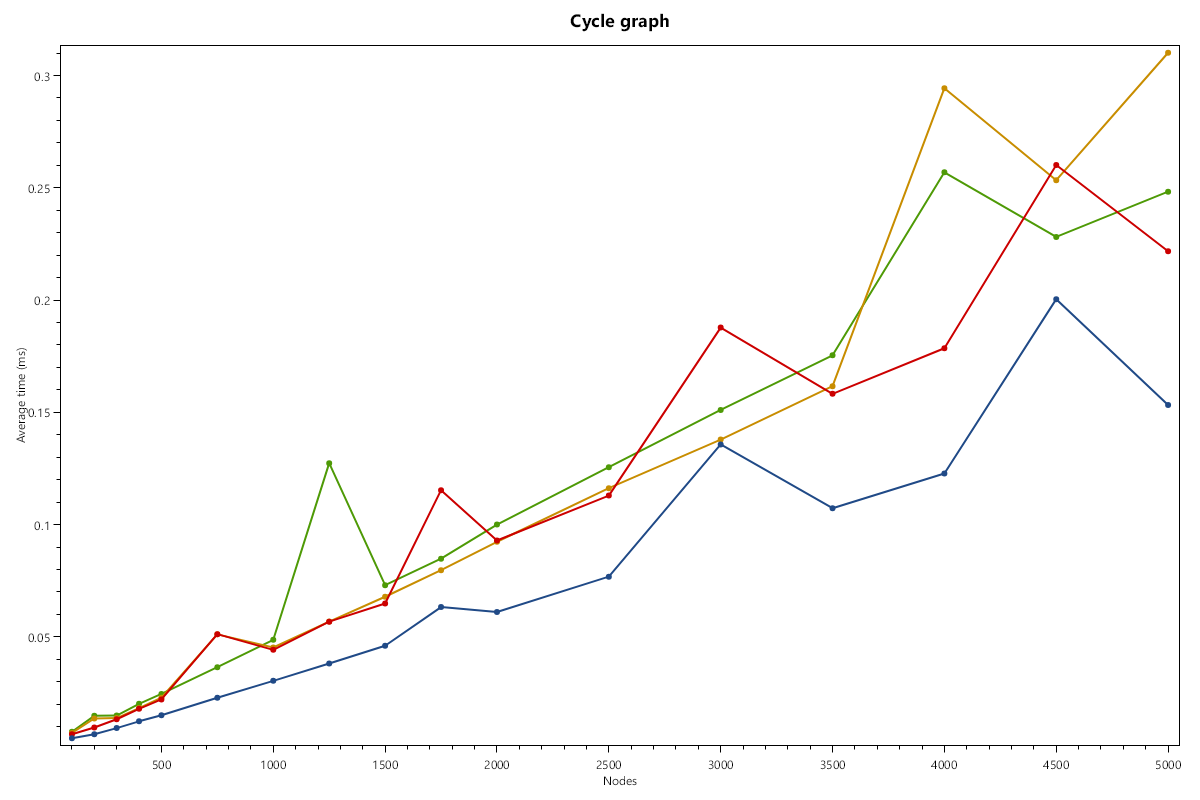
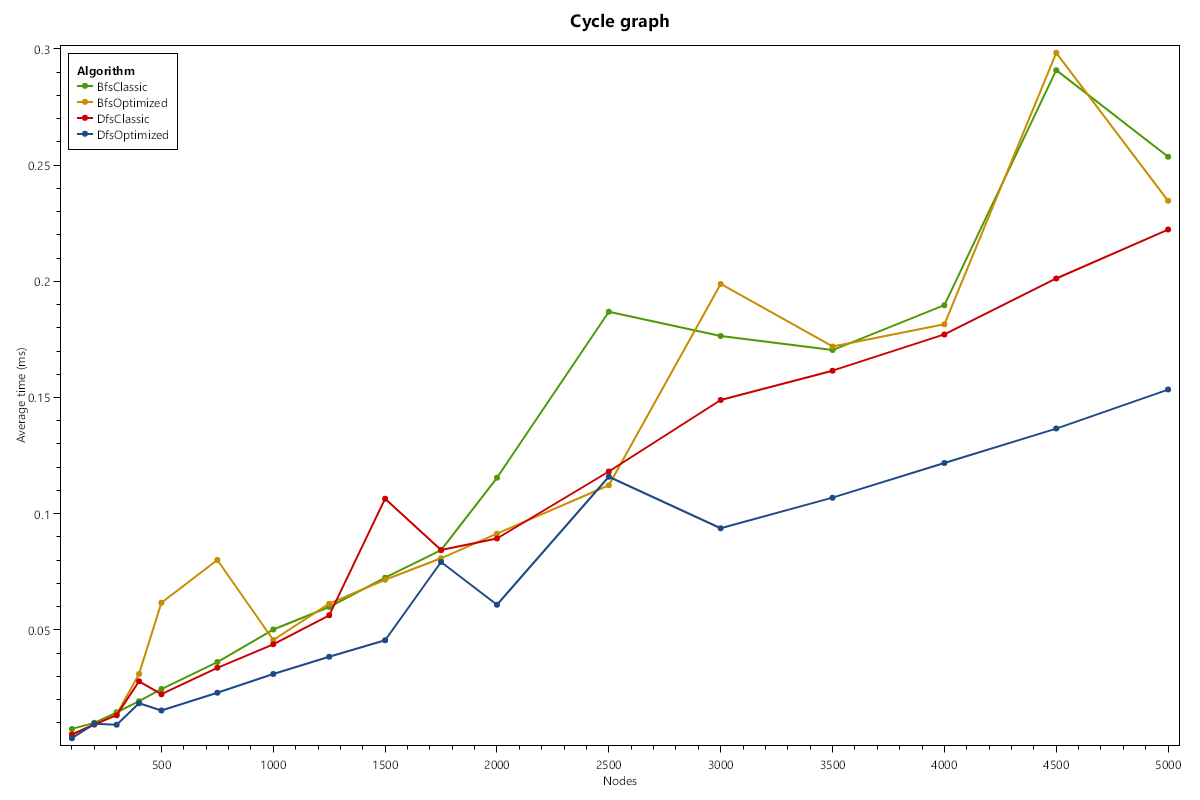
Modified BenchmarkPlotter.cs

diff --git a/Laboratories/Lab3/Benchmarking/BenchmarkPlotter.cs b/Laboratories/Lab3/Benchmarking/BenchmarkPlotter.cs
@@ -1,6 +1,7 @@
 using Lab3.Graphs;
 using OxyPlot;
 using OxyPlot.Axes;
+using OxyPlot.Legends;
 using OxyPlot.Series;
 using OxyPlot.SkiaSharp;
 
@@ -12,13 +13,28 @@ public static class BenchmarkPlotter
     {
         Directory.CreateDirectory(outputDirectory);
 
-        foreach (var graphGroup in results.GroupBy(r => r.GraphType))
+        var benchmarkResults = results.ToList();
+
+        foreach (var graphGroup in benchmarkResults.GroupBy(r => r.GraphType))
         {
             var model = new PlotModel
             {
                 Title = $"{graphGroup.Key} graph",
                 Background = OxyColors.White
             };
+
+            model.Legends.Add(new Legend
+            {
+                LegendTitle = "Algorithm",
+                LegendPosition = LegendPosition.TopLeft,
+                LegendPlacement = LegendPlacement.Inside,
+                LegendBorder = OxyColors.Black,
+                LegendBorderThickness = 1,
+                LegendBackground = OxyColors.White,
+                LegendTextColor = OxyColors.Black,
+                LegendTitleColor = OxyColors.Black
+            });
+
             model.Axes.Add(new LinearAxis { Position = AxisPosition.Bottom, Title = "Nodes" });
             model.Axes.Add(new LinearAxis { Position = AxisPosition.Left, Title = "Average time (ms)" });
 
@@ -36,5 +52,51 @@ public static class BenchmarkPlotter
             var filePath = Path.Combine(outputDirectory, $"{graphGroup.Key}.png");
             PngExporter.Export(model, filePath, 1200, 800, 96);
         }
+
+        SaveOverallPlot(benchmarkResults, outputDirectory);
+    }
+
+    private static void SaveOverallPlot(IEnumerable<BenchmarkResult> results, string outputDirectory)
+    {
+        var model = new PlotModel
+        {
+            Title = "Overall algorithm comparison",
+            Background = OxyColors.White
+        };
+
+        model.Legends.Add(new Legend
+        {
+            LegendTitle = "Algorithm",
+            LegendPosition = LegendPosition.TopLeft,
+            LegendPlacement = LegendPlacement.Inside,
+            LegendBorder = OxyColors.Black,
+            LegendBorderThickness = 1,
+            LegendBackground = OxyColors.White,
+            LegendTextColor = OxyColors.Black,
+            LegendTitleColor = OxyColors.Black
+        });
+
+        model.Axes.Add(new LinearAxis { Position = AxisPosition.Bottom, Title = "Nodes" });
+        model.Axes.Add(new LinearAxis { Position = AxisPosition.Left, Title = "Average time (ms)" });
+
+        foreach (var algorithmGroup in results.GroupBy(r => r.Algorithm))
+        {
+            var series = new LineSeries { Title = algorithmGroup.Key, MarkerType = MarkerType.Circle };
+
+            var averagedBySize = algorithmGroup
+                .GroupBy(r => r.Size)
+                .OrderBy(g => g.Key)
+                .Select(g => new { Size = g.Key, Avg = g.Average(x => x.AverageMilliseconds) });
+
+            foreach (var point in averagedBySize)
+            {
+                series.Points.Add(new DataPoint(point.Size, point.Avg));
+            }
+
+            model.Series.Add(series);
+        }
+
+        var filePath = Path.Combine(outputDirectory, "Overall.png");
+        PngExporter.Export(model, filePath, 1200, 800, 96);
     }
 }
